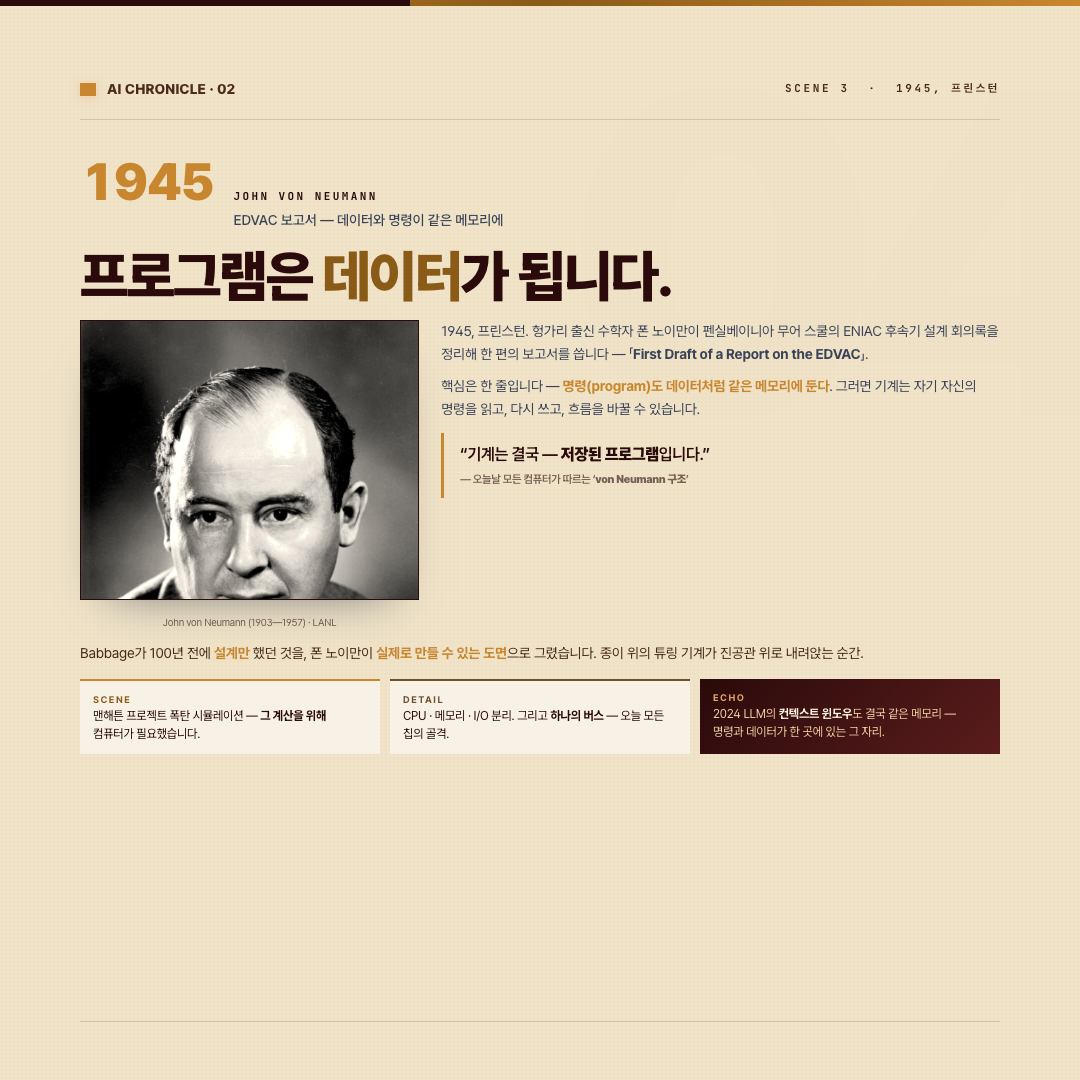
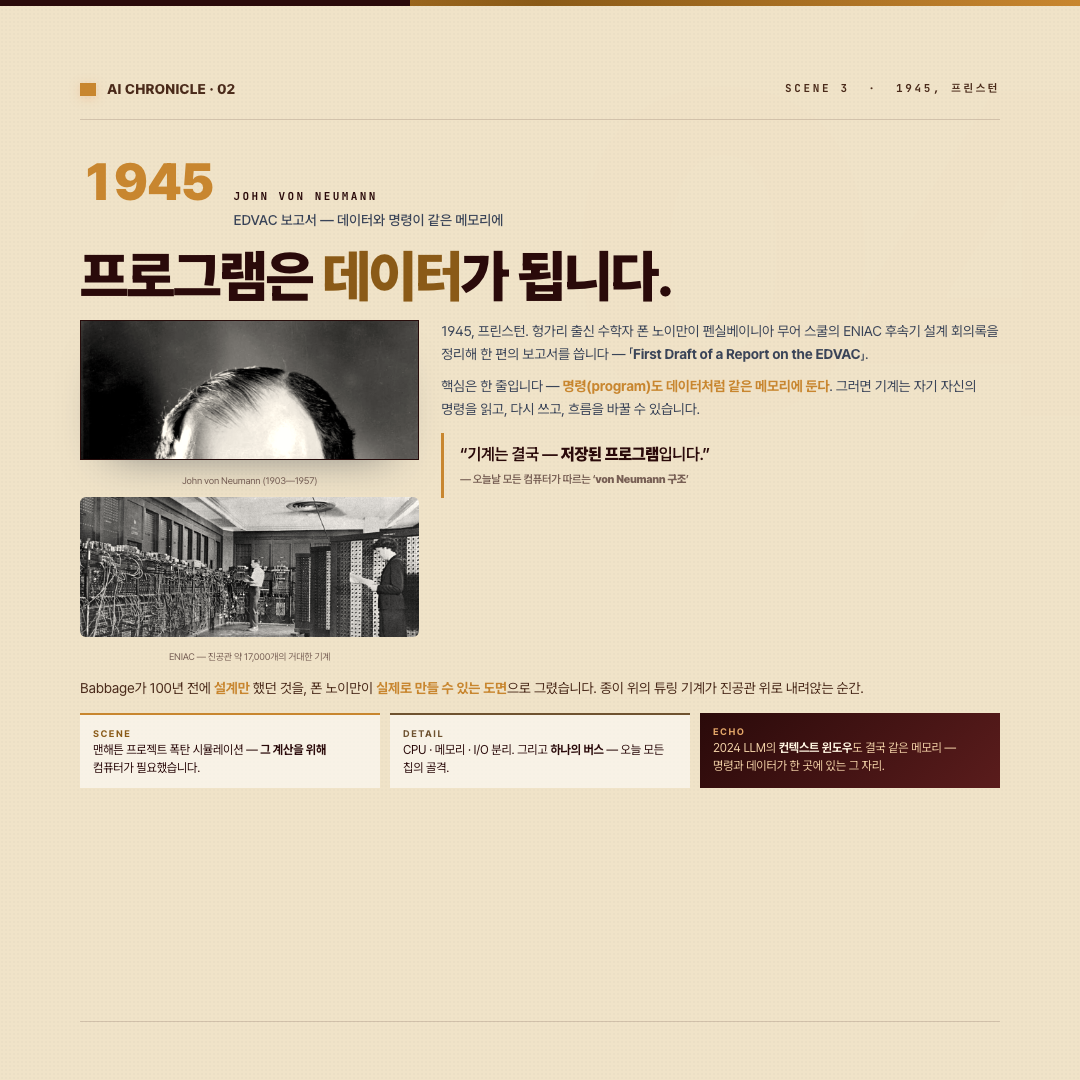
feat(chronicle 02): von Neumann 카드에 ENIAC 사진 추가 (인물+기계 split)
- 폰 노이만 EDVAC 보고서가 ENIAC 후속이라는 맥락에 맞춰
- 인물 사진 위 + ENIAC 사진 아래로 두 장 split
- 다른 기계(Mark I·VAX·Symbolics)는 Wikimedia에 사진 없어 SVG 유지

Changed region(s): [[0.0611, 0.4278, 0.9472, 0.7333]]

diff --git a/chronicle-2-cards-tape/04-vonneumann.html b/chronicle-2-cards-tape/04-vonneumann.html
@@ -19,8 +19,10 @@
 
     <div class="split" style="grid-template-columns:0.85fr 1.4fr; gap:22px; margin-top:14px;">
       <div class="left">
-        <img src="../images/vonneumann.jpg" class="portrait" style="width:100%; height:280px; object-fit:cover; object-position:center top; filter:sepia(0.18);" alt="John von Neumann" />
-        <p style="font-size:10px; margin-top:4px; opacity:0.6; text-align:center;">John von Neumann (1903—1957) · LANL</p>
+        <img src="../images/vonneumann.jpg" class="portrait" style="width:100%; height:140px; object-fit:cover; object-position:center top; filter:sepia(0.18);" alt="John von Neumann" />
+        <p style="font-size:9.5px; margin-top:3px; opacity:0.6; text-align:center;">John von Neumann (1903—1957)</p>
+        <img src="../images/eniac.jpg" style="width:100%; height:140px; object-fit:cover; object-position:center; border-radius:6px; margin-top:8px; filter:sepia(0.1);" alt="ENIAC" />
+        <p style="font-size:9.5px; margin-top:3px; opacity:0.6; text-align:center;">ENIAC — 진공관 약 17,000개의 거대한 기계</p>
       </div>
       <div class="right">
         <p class="body-sm" style="font-size:14px; line-height:1.65;">1945, 프린스턴. 헝가리 출신 수학자 폰 노이만이 펜실베이니아 무어 스쿨의 ENIAC 후속기 설계 회의록을 정리해 한 편의 보고서를 씁니다 — 「<b>First Draft of a Report on the EDVAC</b>」.</p>
